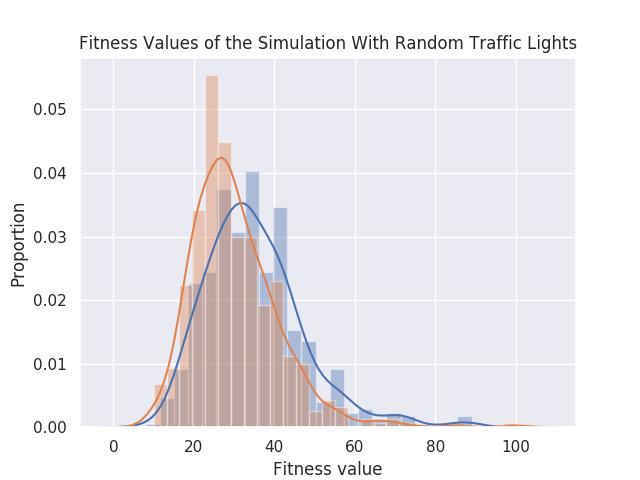
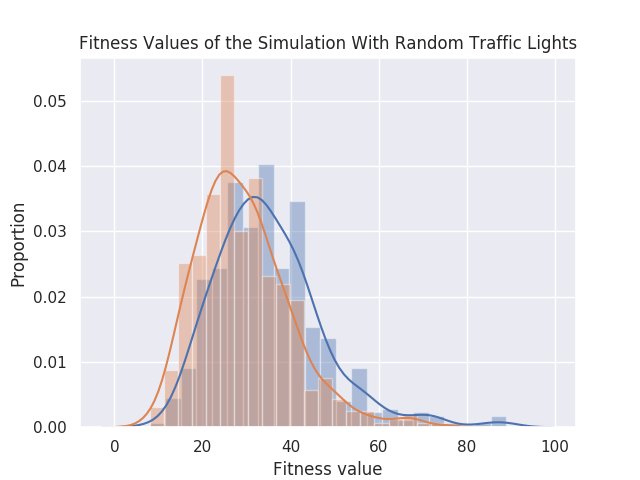
now random changes every 5 steps

diff --git a/src/experiments.py b/src/experiments.py
@@ -39,8 +39,10 @@ def run_all_random(city,steps_simulation,n_simulations):
     all_fitness = []
     for single_simulation in range(n_simulations):
         print('Simulation:', single_simulation)
+        lights = [choice([True, False]) for i in range(number_of_lights)]
         for i in range(steps_simulation):
-            lights = [choice([True, False]) for i in range(number_of_lights)]
+            if i % 5 == 0:
+                lights = [choice([True, False]) for i in range(number_of_lights)]
             city.step(lights)
             # sleep(0.1)
         fitness = city.cars_despawned

diff --git a/src/city.py b/src/city.py
@@ -4,6 +4,7 @@ from car import Car
 from copy import deepcopy
 from cell import Lights
 
+
 class City:
     MAX_CARS = 100
     MAX_SPAWN_PER_STEP = 8
